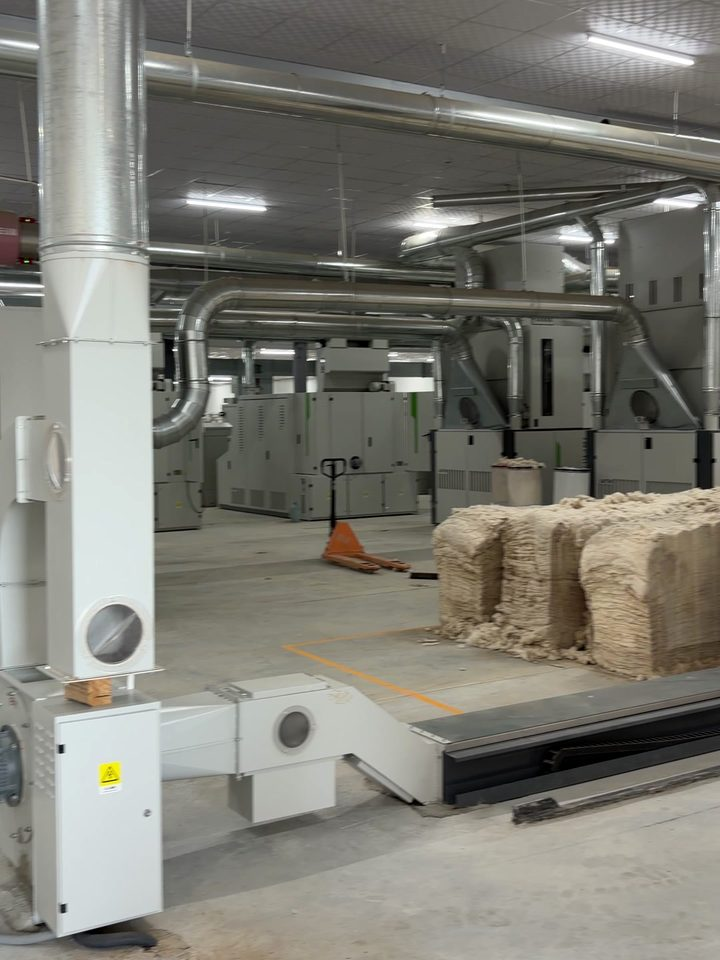
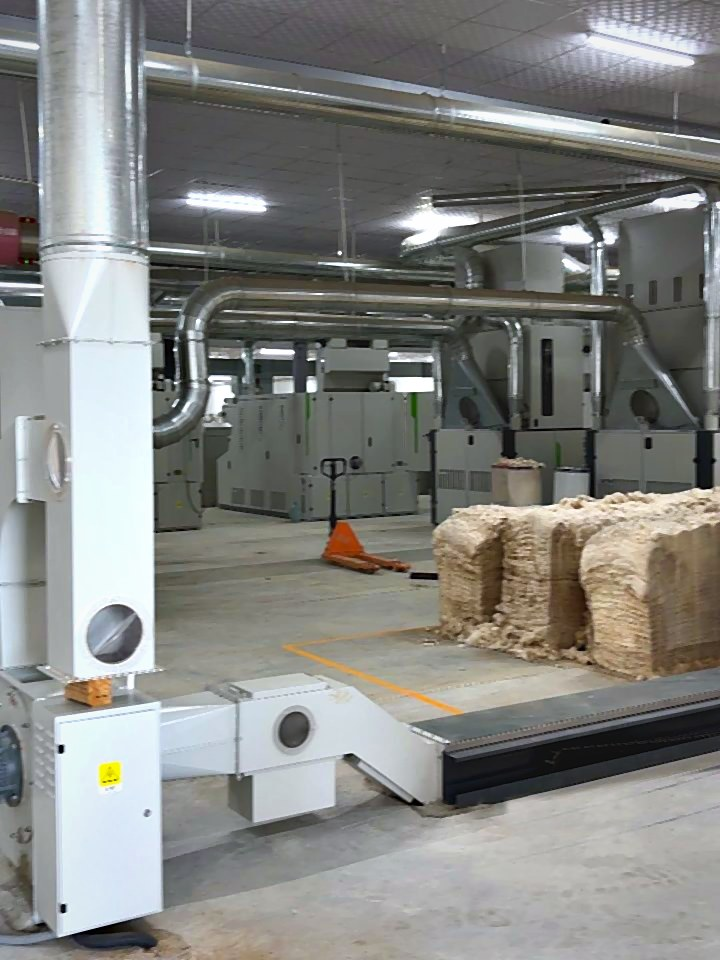
Yarn gallery: retouch raw-material preparation photo
Neutral white balance, levels and contrast, clarity and sharpening,
light denoise, and debris removed from the floor.

Claude-Session: https://claude.ai/code/session_016sCuQnP49GbCoufDb1CL6c

diff --git a/docs/ru/yarn.html b/docs/ru/yarn.html
@@ -97,7 +97,7 @@
         <header class="section-head"><h2>Предприятие</h2></header>
         <div class="gallery">
         <figure class="photo">
-          <img src="../assets/img/yarn-1.jpg?v=40c728ed" alt="Цех подготовки сырья" loading="lazy">
+          <img src="../assets/img/yarn-1.jpg?v=e4d2e5c7" alt="Цех подготовки сырья" loading="lazy">
           <figcaption>Цех подготовки сырья</figcaption>
         </figure>
         <figure class="photo">

diff --git a/docs/tk/yarn.html b/docs/tk/yarn.html
@@ -97,7 +97,7 @@
         <header class="section-head"><h2>Kärhana</h2></header>
         <div class="gallery">
         <figure class="photo">
-          <img src="../assets/img/yarn-1.jpg?v=40c728ed" alt="Çig maly taýýarlaýyş sehi" loading="lazy">
+          <img src="../assets/img/yarn-1.jpg?v=e4d2e5c7" alt="Çig maly taýýarlaýyş sehi" loading="lazy">
           <figcaption>Çig maly taýýarlaýyş sehi</figcaption>
         </figure>
         <figure class="photo">

diff --git a/docs/en/yarn.html b/docs/en/yarn.html
@@ -97,7 +97,7 @@
         <header class="section-head"><h2>The mill</h2></header>
         <div class="gallery">
         <figure class="photo">
-          <img src="../assets/img/yarn-1.jpg?v=40c728ed" alt="Raw material preparation" loading="lazy">
+          <img src="../assets/img/yarn-1.jpg?v=e4d2e5c7" alt="Raw material preparation" loading="lazy">
           <figcaption>Raw material preparation</figcaption>
         </figure>
         <figure class="photo">
